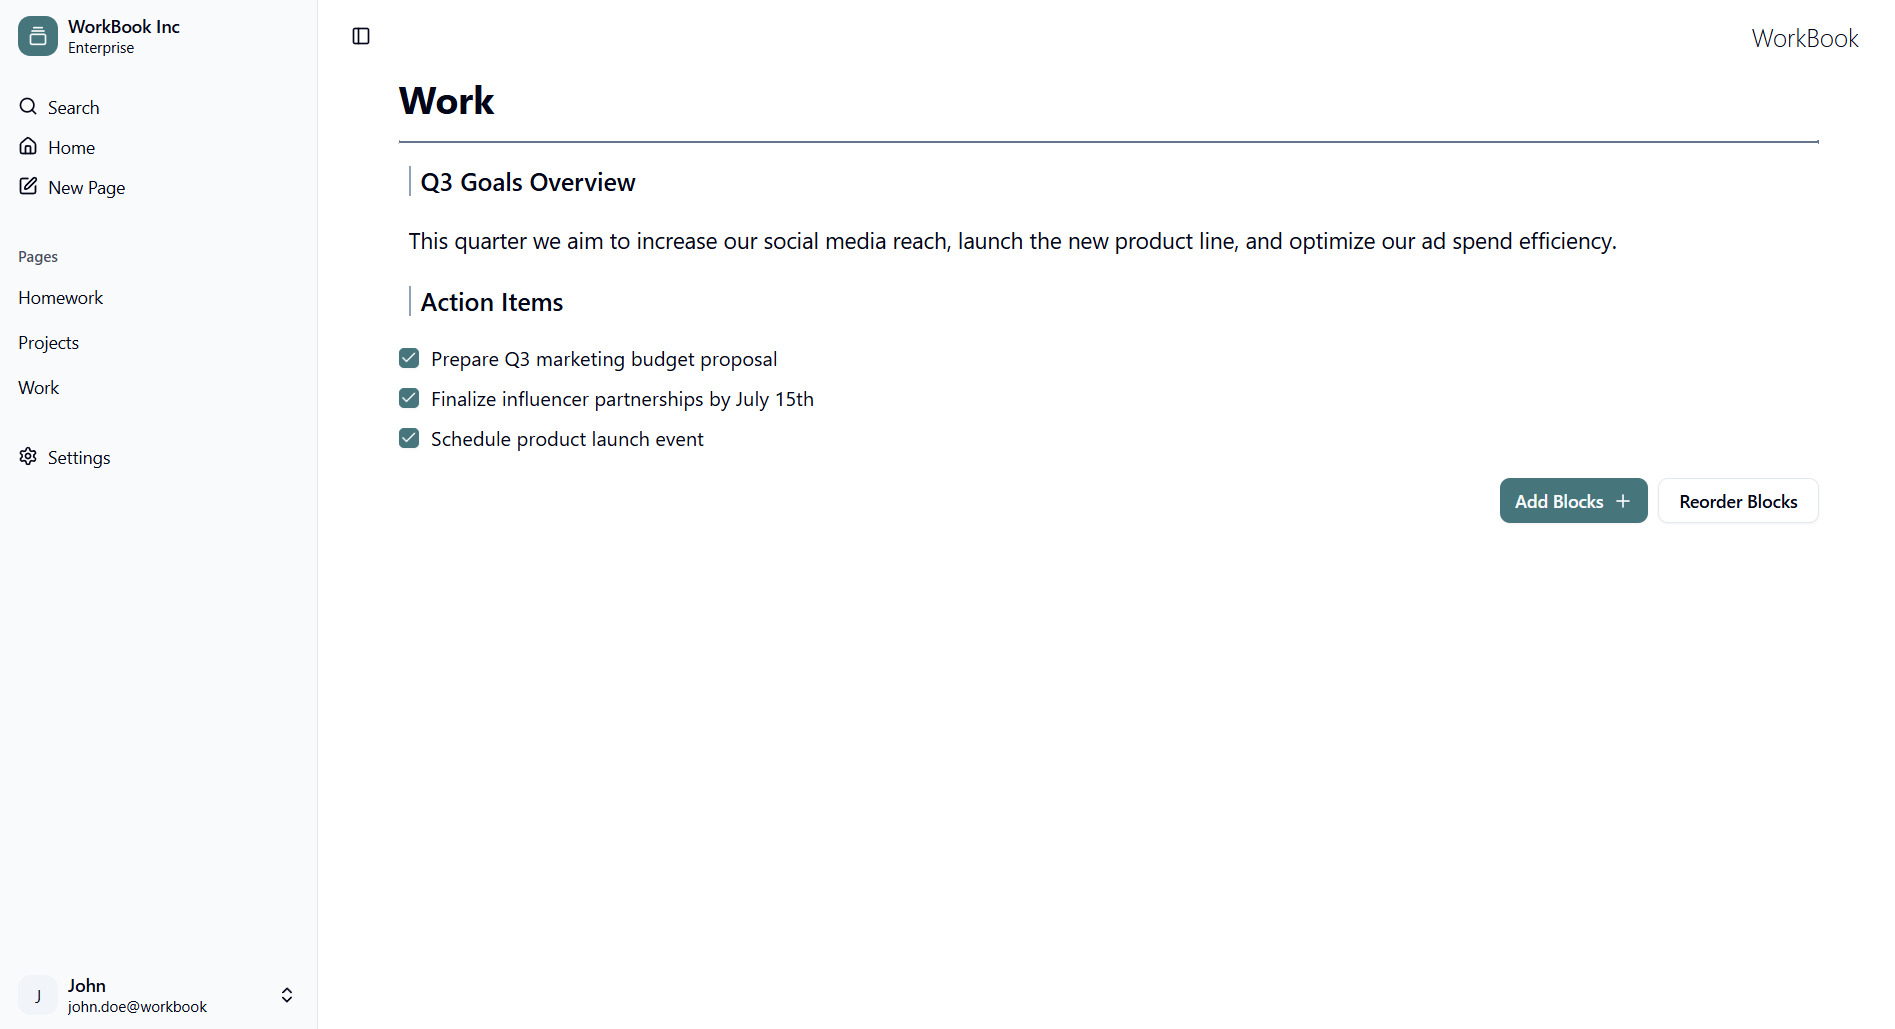
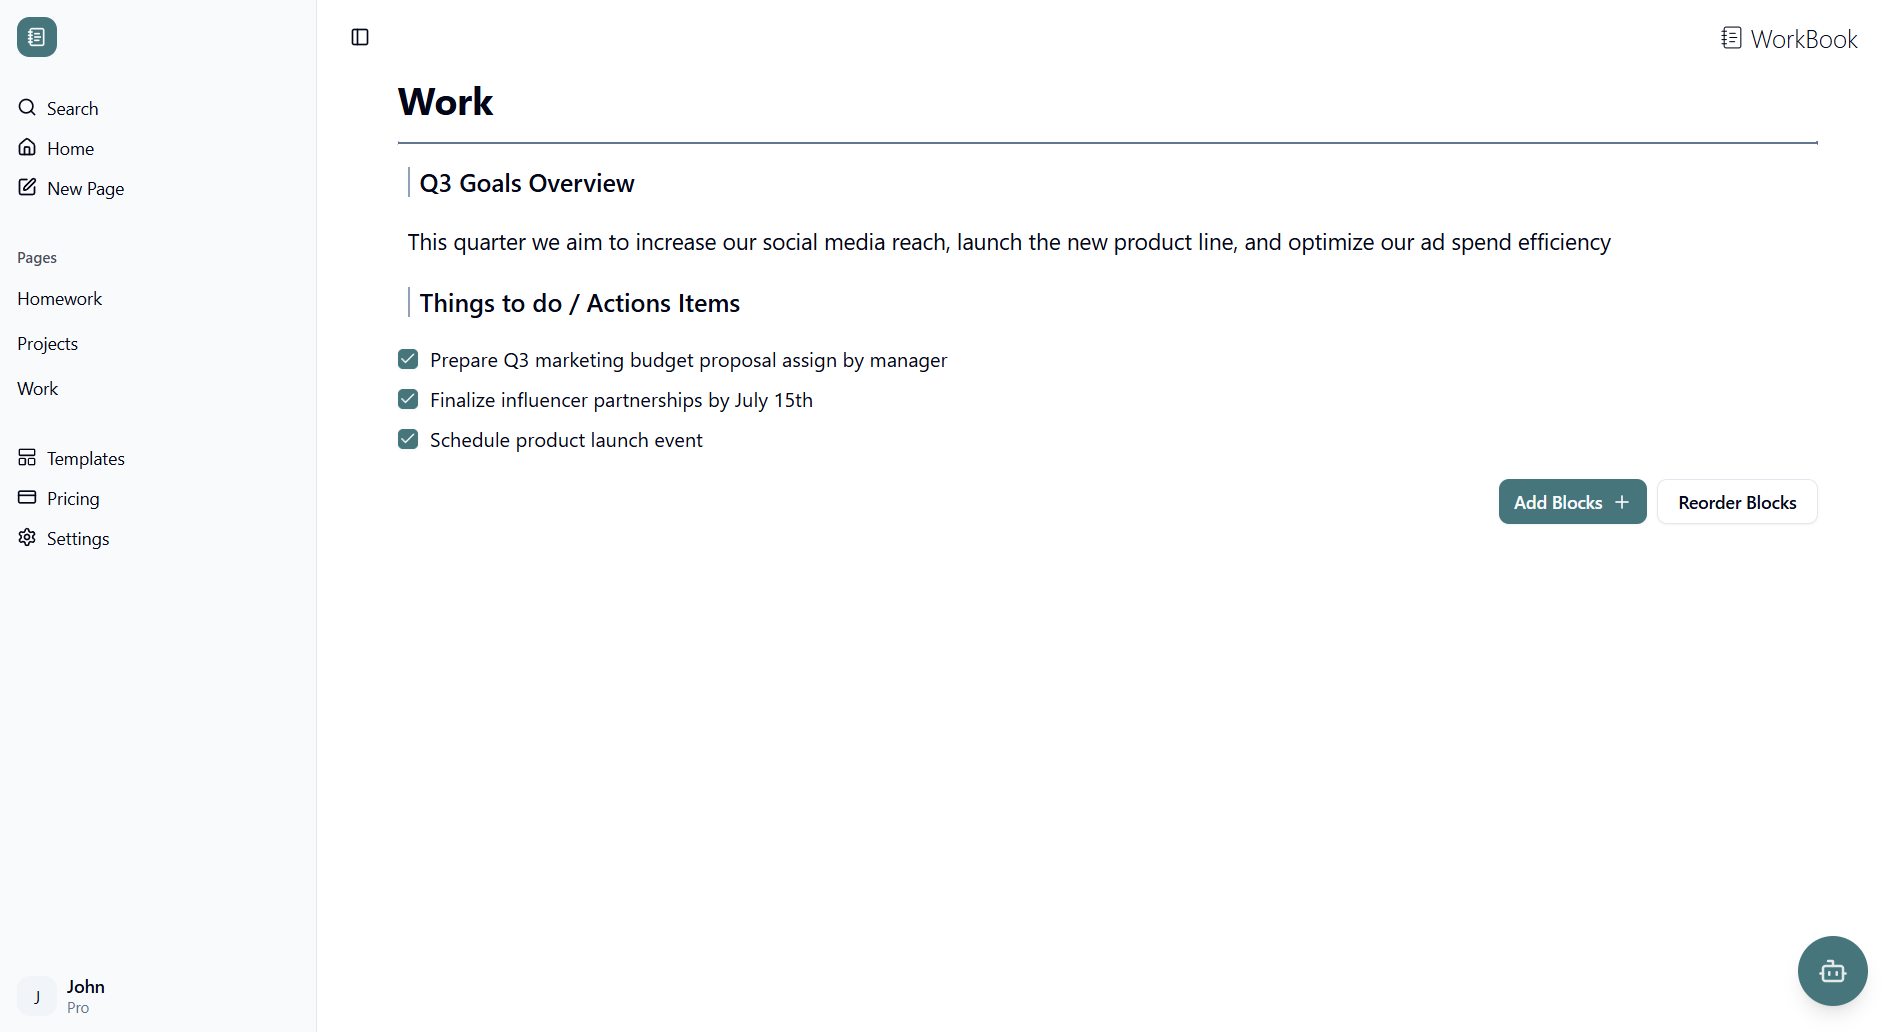
Update README

diff --git a/src/components/simple-pricing.tsx b/src/components/simple-pricing.tsx
@@ -80,7 +80,7 @@ export default function SimplePricing({ user, currentPlan } : {
   };
   
   return (
-    <div className="not-prose relative flex w-full flex-col gap-16 overflow-hidden px-4 py-24 text-center sm:px-8">
+    <div className="not-prose relative flex w-full flex-col gap-16 overflow-hidden px-6 py-10 text-center sm:px-8">
       <div className="absolute inset-0 -z-10 overflow-hidden">
         <div className="absolute -top-[10%] left-[50%] h-[40%] w-[60%] -translate-x-1/2 rounded-full bg-primary/10 blur-3xl" />
         <div className="absolute -bottom-[10%] -right-[10%] h-[40%] w-[40%] rounded-full bg-primary/5 blur-3xl" />
@@ -94,7 +94,7 @@ export default function SimplePricing({ user, currentPlan } : {
           disabled={loading}
           className="absolute top-8 left-10 flex items-center gap-1 text-base sm:text-lg text-foreground transition-all hover:cursor-pointer disabled:opacity-70 disabled:cursor-not-allowed"
         >
-          {loading ? <><Loader className="size-4 sm:size-5 animate-spin" /> Redirecting...</> : <><ArrowLeft className="size-4 sm:size-5" /> Back</>}
+          {loading ? <><Loader className="size-4 sm:size-5 animate-spin" /> <p className='hidden sm:block'>Redirecting...</p></> : <><ArrowLeft className="size-4 sm:size-5" /><p className='hidden sm:block'>Back</p></>}
         </button>
       <div className="flex flex-col items-center justify-center gap-8">
         <div className="flex flex-col items-center space-y-2">

diff --git a/src/components/nav-user.tsx b/src/components/nav-user.tsx
@@ -26,7 +26,9 @@ export function NavUser({ user }: {
   const router = useRouter();
   const displayName = user.name?.trim() || "Anonymous";
   const displayEmail = user.email?.trim() || "No email";
-  const displayPlan = user.plan[0].toUpperCase() + user.plan.slice(1);
+  const displayPlan = user.plan
+    ? user.plan[0].toUpperCase() + user.plan.slice(1)
+    : "Free"; 
 
   const handleSignOut = async () => {
     setIsLoggingOut(true);

diff --git a/README.md b/README.md
@@ -35,6 +35,7 @@ This project was built to deepen my practical skills in:
 ![Authentication](public/screenshots/authentication-page.png)
 ![Dashboard](public/screenshots/dashboard-page.png)
 ![Block Editor](public/screenshots/block-editor.png)
+![Pricing](public/screenshots/pricing-page.png)
 ![Settings](public/screenshots/settings-page.png)
 
 ---
@@ -50,6 +51,7 @@ This project was built to deepen my practical skills in:
 | **UI Library** | Custom + Shadcn UI Components |
 | **Deployment** | Vercel |
 | **AI Integration** | Gemini API (for page summarization, Q&A, and action extraction) |
+| **Payments** | Stripe (Test Mode) |
 
 ---
 
@@ -77,6 +79,10 @@ This project was built to deepen my practical skills in:
 │   │   ├── create-page.ts
 │   │   └── delete-page.ts
 │   ├── app
+│   │   ├── api
+│   │   │   ├── checkout
+│   │   │   ├── webhook
+│   │   │   └── cancel-subscription
 │   │   ├── auth
 │   │   │   └── callback
 │   │   ├── dashboard
@@ -91,6 +97,8 @@ This project was built to deepen my practical skills in:
 │   │   │   │   └── page.tsx
 │   │   │   ├── page.tsx
 │   │   │   └── layout.tsx
+│   │   ├── pricing
+│   │   │   └── page.tsx
 │   │   ├── login
 │   │   │   ├── loading.tsx
 │   │   │   └── page.tsx
@@ -111,15 +119,17 @@ This project was built to deepen my practical skills in:
 │   │   ├── dashboard-layout.tsx
 │   │   ├── editor.tsx
 │   │   ├── home-content.tsx
+│   │   ├── logo-sidebar.tsx
 │   │   ├── nav-bar.tsx
 │   │   ├── nav-projects.tsx
 │   │   ├── nav-user.tsx
 │   │   ├── settings-theme.tsx
-│   │   ├── team-switcher.tsx
+│   │   ├── simple-pricing.tsx
 │   │   ├── theme-provider.tsx
 │   │   └── ui
 │   │       ├── Logo.tsx
 │   │       ├── avatar.tsx
+│   │       ├── badge.tsx
 │   │       ├── button.tsx
 │   │       ├── card.tsx
 │   │       ├── carousel.tsx
@@ -136,6 +146,8 @@ This project was built to deepen my practical skills in:
 │   │       ├── skeleton.tsx
 │   │       ├── sonner.tsx
 │   │       ├── switch.tsx
+│   │       ├── tabs.tsx
+│   │       ├── textarea.tsx
 │   │       └── tooltip.tsx
 │   ├── hooks
 │   │   └── use-mobile.ts
@@ -144,7 +156,9 @@ This project was built to deepen my practical skills in:
 │   │   │   ├── extract-actions.ts
 │   │   │   ├── page-summary.ts
 │   │   │   └── qna-page.ts
+│   │   ├── constants.ts
 │   │   ├── getUser.ts
+│   │   ├── getSettings.ts
 │   │   ├── getDashboardData.ts
 │   │   ├── getPageData.ts
 │   │   ├── getHomeData.ts
@@ -155,6 +169,7 @@ This project was built to deepen my practical skills in:
 │   └── utils
 │       ├── actions.ts
 │       ├── helpers.ts
+│       ├── checkRateLimit.ts
 │       └── supabase
 │           ├── client.ts
 │           └── server.ts
@@ -183,8 +198,18 @@ This project was built to deepen my practical skills in:
    npm install
 3. **Set up environment variables**
    ```bash
-    NEXT_PUBLIC_SUPABASE_URL=your-supabase-url
-    NEXT_PUBLIC_SUPABASE_ANON_KEY=your-anon-key
+   # Supabase
+   NEXT_PUBLIC_SUPABASE_URL=your-supabase-url
+   NEXT_PUBLIC_SUPABASE_ANON_KEY=your-anon-key
+   SUPABASE_SERVICE_ROLE_KEY=your-service-role-key
+
+   # Stripe (Test Mode)
+   STRIPE_SECRET_KEY=your-stripe-secret-key
+   STRIPE_WEBHOOK_SECRET=your-stripe-webhook-secret
+   NEXT_PUBLIC_STRIPE_PUBLISHABLE_KEY=your-stripe-publishable-key
+
+   # Gemini AI
+   GOOGLE_API_KEY=your-gemini-api-key
 4. **Run locally**
    ```bash
     npm run dev
@@ -210,3 +235,12 @@ This project demonstrates:
 ✅ Clean project structure, type-safe components, and ESLint best practices
 
 ---
+
+## 💳 Payments Integration (Test Mode)
+
+**Stripe Checkout** has been integrated to allow subscription management (e.g., upgrading plans).  
+Currently, Stripe is running in **Test Mode**, so **real payments are not processed**.
+
+> ⚠ This is a test environment. Use [Stripe test cards](https://stripe.com/docs/testing#international-cards) to simulate payments.
+
+Plans are managed via the `/pricing` page, and users can "subscribe" to different tiers.
